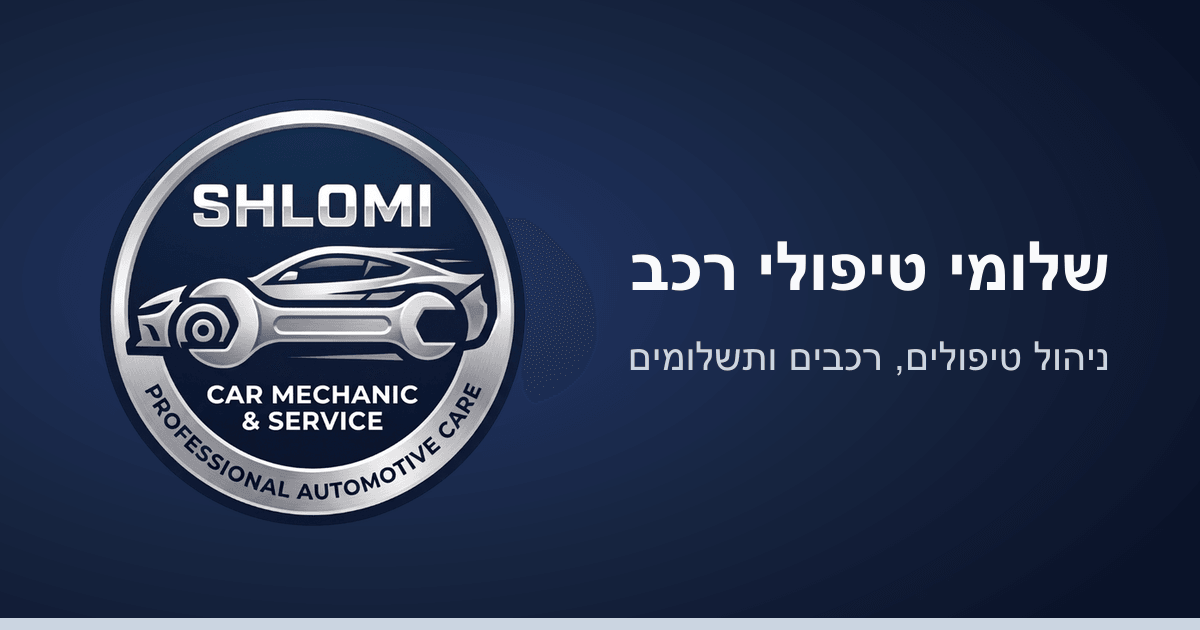
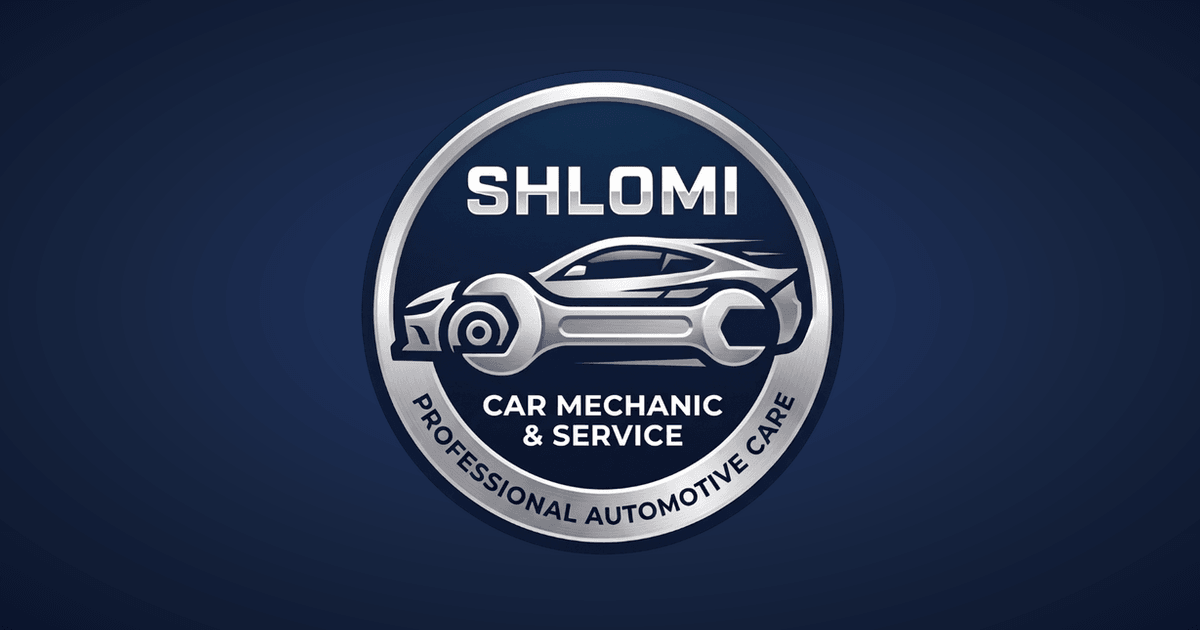
Link preview picture: only the badge on the navy background
The picture WhatsApp shows next to the app link no longer carries the
app name and tagline (they already appear under it); the badge sits
in the middle. The image address got a version so previews refresh.

Changed region(s): [[0.0925, 0.1206, 0.925, 0.8746], [0.0, 0.9651, 1.0, 1.0]]

diff --git a/public/index.html b/public/index.html
@@ -22,8 +22,8 @@
     <meta property="og:title" content="שלומי טיפולי רכב · ניהול טיפולים" />
     <meta property="og:description" content="מעקב טיפולים לרכב: מה בוצע, מה נשאר, תשלומים ותזכורת לטיפול שנתי" />
     <meta property="og:url" content="__APP_URL__/" />
-    <meta property="og:image" content="__APP_URL__/og-image.png" />
-    <meta property="og:image:secure_url" content="__APP_URL__/og-image.png" />
+    <meta property="og:image" content="__APP_URL__/og-image.png?v=2" />
+    <meta property="og:image:secure_url" content="__APP_URL__/og-image.png?v=2" />
     <meta property="og:image:type" content="image/png" />
     <meta property="og:image:width" content="1200" />
     <meta property="og:image:height" content="630" />
@@ -32,7 +32,7 @@
     <meta name="twitter:card" content="summary_large_image" />
     <meta name="twitter:title" content="שלומי טיפולי רכב · ניהול טיפולים" />
     <meta name="twitter:description" content="מעקב טיפולים לרכב: מה בוצע, מה נשאר, תשלומים ותזכורת לטיפול שנתי" />
-    <meta name="twitter:image" content="__APP_URL__/og-image.png" />
+    <meta name="twitter:image" content="__APP_URL__/og-image.png?v=2" />
 
     <link rel="preconnect" href="https://fonts.googleapis.com" />
     <link rel="preconnect" href="https://fonts.gstatic.com" crossorigin />
